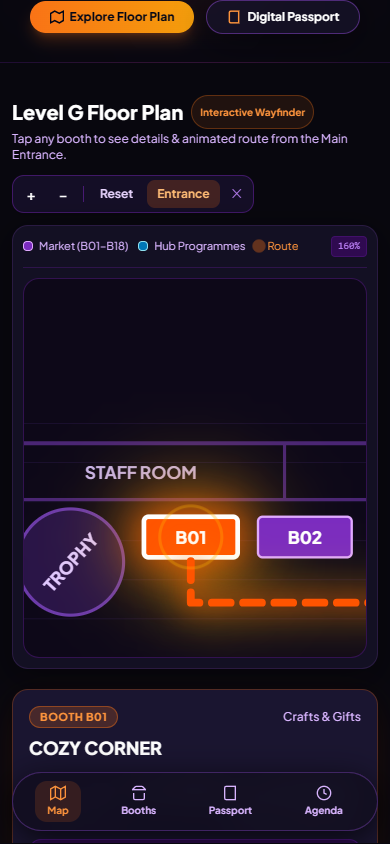
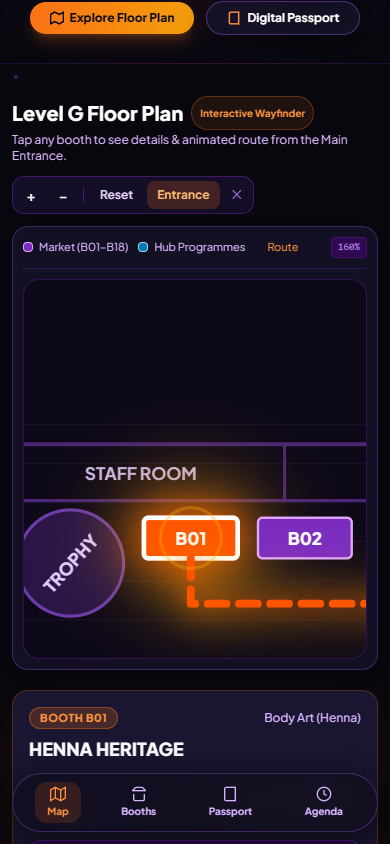
feat: sync final booth directory assignments and remove SALES 2 while keeping B01-B18 map labels

diff --git a/app.js b/app.js
@@ -31,10 +31,10 @@ const BOOTHS_DATA = [
   // --- 1. Top Corridor Row (B01 - B07) ---
   {
     id: "B01",
-    name: "COZY CORNER",
-    category: "Crafts & Gifts",
-    owner: "Sharifah Elliya Farzana",
-    matric: "MC240930531",
+    name: "HENNA HERITAGE",
+    category: "Body Art (Henna)",
+    owner: "Shashmita",
+    matric: "MC240930425",
     section: "MC-S2",
     zone: "Top Corridor",
     cx: 139,
@@ -44,10 +44,10 @@ const BOOTHS_DATA = [
   },
   {
     id: "B02",
-    name: "BLOOM & CO",
-    category: "Florist",
-    owner: "Vainishini Sankar",
-    matric: "MC240929109",
+    name: "STUDYMATE STATIONERY",
+    category: "Stationeries & Jerseys",
+    owner: "Shritharan",
+    matric: "MC240930182",
     section: "MC-S2",
     zone: "Top Corridor",
     cx: 212,
@@ -57,10 +57,10 @@ const BOOTHS_DATA = [
   },
   {
     id: "B03",
-    name: "KITTY KRAFT",
-    category: "Women Accessories",
-    owner: "Theeveeya Shankar Ganesh",
-    matric: "MC240929954",
+    name: "CROCHET OF TWO (CO2)",
+    category: "Arts & Handicrafts",
+    owner: "Sudha",
+    matric: "MC240929677",
     section: "MC-S2",
     zone: "Top Corridor",
     cx: 285,
@@ -70,10 +70,10 @@ const BOOTHS_DATA = [
   },
   {
     id: "B04",
-    name: "IYAL JEWELLERY",
-    category: "Jewelleries",
-    owner: "Ooi Shun Jie Puvendran",
-    matric: "MC240728744",
+    name: "CHARMORA STUDIO",
+    category: "Toys & Keychains",
+    owner: "Nurdini Alya Najwa",
+    matric: "MC240930547",
     section: "MC-S2",
     zone: "Top Corridor",
     cx: 358,
@@ -83,10 +83,10 @@ const BOOTHS_DATA = [
   },
   {
     id: "B05",
-    name: "STUDYMATE STATIONERY",
-    category: "Stationeries & Jerseys",
-    owner: "Shritharan",
-    matric: "MC240930182",
+    name: "KITTY KRAFT",
+    category: "Women Accessories",
+    owner: "Theeveeya Shankar Ganesh",
+    matric: "MC240929954",
     section: "MC-S2",
     zone: "Top Corridor",
     cx: 433,
@@ -96,11 +96,11 @@ const BOOTHS_DATA = [
   },
   {
     id: "B06",
-    name: "PHOTO BOOTH",
-    category: "Photography",
-    owner: "Shawin",
-    matric: "MC240728820",
-    section: "MC-S2",
+    name: "MIRRORART CO.",
+    category: "Hand Mirror For Décor",
+    owner: "Hirosha",
+    matric: "MC240728764",
+    section: "MC-S3",
     zone: "Top Corridor",
     cx: 508,
     cy: 73,
@@ -109,10 +109,10 @@ const BOOTHS_DATA = [
   },
   {
     id: "B07",
-    name: "PB & JL",
-    category: "Keychains, Charms, Pins",
-    owner: "Louiis Fernandez",
-    matric: "MC240930559",
+    name: "FLORAL & CO.",
+    category: "Florist",
+    owner: "Yooshnika",
+    matric: "MC240930186",
     section: "MC-S2",
     zone: "Top Corridor",
     cx: 583,
@@ -124,11 +124,11 @@ const BOOTHS_DATA = [
   // --- 2. West Corridor (Outer: B10, B09, B08 | Inner: B13, B12, B11) ---
   {
     id: "B08",
-    name: "CROCHET OF TWO (CO2)",
-    category: "Arts & Handicrafts",
-    owner: "Sudha",
-    matric: "MC240929677",
-    section: "MC-S2",
+    name: "INK & PAPER CO.",
+    category: "Stationery Sets",
+    owner: "Jagedishraj",
+    matric: "MC250534559",
+    section: "MC-S3",
     zone: "West Corridor",
     cx: 39,
     cy: 374,
@@ -137,10 +137,10 @@ const BOOTHS_DATA = [
   },
   {
     id: "B09",
-    name: "FLORAL & CO.",
+    name: "BLOOM & CO",
     category: "Florist",
-    owner: "Yooshnika",
-    matric: "MC240930186",
+    owner: "Vainishini Sankar",
+    matric: "MC240929109",
     section: "MC-S2",
     zone: "West Corridor",
     cx: 39,
@@ -150,10 +150,10 @@ const BOOTHS_DATA = [
   },
   {
     id: "B10",
-    name: "ROSE2U",
-    category: "Florist",
-    owner: "Levnesh",
-    matric: "MC240527875",
+    name: "COZY CORNER",
+    category: "Crafts & Gifts",
+    owner: "Sharifah Elliya Farzana",
+    matric: "MC240930531",
     section: "MC-S2",
     zone: "West Corridor",
     cx: 39,
@@ -163,11 +163,11 @@ const BOOTHS_DATA = [
   },
   {
     id: "B11",
-    name: "CHARMORA STUDIO",
-    category: "Toys, Keychains",
-    owner: "Nurdini Alya Najwa",
-    matric: "MC240930547",
-    section: "MC-S2",
+    name: "TRISSORIES",
+    category: "Mini Wallet, Lanyard, Plushies, Keychains",
+    owner: "Krishan",
+    matric: "MC240929212",
+    section: "MC-S3",
     zone: "West Corridor",
     cx: 152,
     cy: 374,
@@ -176,10 +176,10 @@ const BOOTHS_DATA = [
   },
   {
     id: "B12",
-    name: "HENNA HERITAGE",
-    category: "Body Art",
-    owner: "Shashmita",
-    matric: "MC240930425",
+    name: "IYAL JEWELLERY",
+    category: "Jewelleries",
+    owner: "Ooi Shun Jie Puvendran",
+    matric: "MC240728744",
     section: "MC-S2",
     zone: "West Corridor",
     cx: 152,
@@ -189,11 +189,11 @@ const BOOTHS_DATA = [
   },
   {
     id: "B13",
-    name: "ACCESSORIZE",
-    category: "Accessories",
-    owner: "Aila Naazneen",
-    matric: "MC260944134",
-    section: "MC-S2",
+    name: "AURORA",
+    category: "Candles & Earrings",
+    owner: "Nirmala Dhevi",
+    matric: "MC240930460",
+    section: "MC-S3",
     zone: "West Corridor",
     cx: 152,
     cy: 229,
@@ -204,11 +204,11 @@ const BOOTHS_DATA = [
   // --- 3. Middle Hub Zone (B14 - B18) ---
   {
     id: "B14",
-    name: "MIRROR ART & CO",
-    category: "Hand Mirror For Décor",
-    owner: "Hirosha",
-    matric: "MC240728764",
-    section: "MC-S3",
+    name: "SNAP N VIBE",
+    category: "Photography / Instant Photos",
+    owner: "Shawin",
+    matric: "MC240728820",
+    section: "MC-S2",
     zone: "Middle Hub",
     cx: 686,
     cy: 209,
@@ -217,10 +217,10 @@ const BOOTHS_DATA = [
   },
   {
     id: "B15",
-    name: "TRISSORIES",
-    category: "Mini Wallet, Lanyard, Plushies, Keychains",
-    owner: "Krishan",
-    matric: "MC240929212",
+    name: "THREE BROTHERS",
+    category: "Keychains",
+    owner: "Arunn",
+    matric: "MC240929953",
     section: "MC-S3",
     zone: "Middle Hub",
     cx: 686,
@@ -230,11 +230,11 @@ const BOOTHS_DATA = [
   },
   {
     id: "B16",
-    name: "AURORA",
-    category: "Candles, Earrings",
-    owner: "Nirmala Dhevi",
-    matric: "MC240930460",
-    section: "MC-S3",
+    name: "PB & JL",
+    category: "Keychains, Charms, Pins",
+    owner: "Louiis Fernandez",
+    matric: "MC240930559",
+    section: "MC-S2",
     zone: "Middle Hub",
     cx: 687,
     cy: 312,
@@ -243,11 +243,11 @@ const BOOTHS_DATA = [
   },
   {
     id: "B17",
-    name: "IN & PAPER CO.",
-    category: "Stationery Sets",
-    owner: "Jagedishraj",
-    matric: "MC250534559",
-    section: "MC-S3",
+    name: "ROSE2U",
+    category: "Florist",
+    owner: "Levnesh",
+    matric: "MC240527875",
+    section: "MC-S2",
     zone: "Middle Hub",
     cx: 737,
     cy: 212,
@@ -256,11 +256,11 @@ const BOOTHS_DATA = [
   },
   {
     id: "B18",
-    name: "THREE BROTHERS",
-    category: "Keychains",
-    owner: "Arunn",
-    matric: "MC240929953",
-    section: "MC-S3",
+    name: "ACCESSORIES",
+    category: "Accessories",
+    owner: "Aila Naazneen",
+    matric: "MC260944134",
+    section: "MC-S2",
     zone: "Middle Hub",
     cx: 738,
     cy: 269,
@@ -428,18 +428,6 @@ const BOOTHS_DATA = [
     cy: 499,
     path: "524,528 524,400 903,400 903,499 960,499",
     directions: "Located on far right wall inside UNITAR Hub Level G below Gift Counter."
-  },
-  {
-    id: "SALES2",
-    name: "HUB SALES COUNTER 2",
-    category: "Special Booth",
-    owner: "Event Committee",
-    section: "HUB",
-    zone: "Academic Hub",
-    cx: 969,
-    cy: 547,
-    path: "524,528 524,400 903,400 903,547 960,547",
-    directions: "Located at bottom-right corner inside UNITAR Hub Level G."
   }
 ];
 

diff --git a/index.html b/index.html
@@ -519,11 +519,6 @@
               <text x="969" y="499" fill="#fff" font-size="6.5" font-weight="800" text-anchor="middle" dominant-baseline="central" transform="rotate(90 969 499)" pointer-events="none">SALES 1</text>
               <circle cx="990" cy="489" r="4.5" fill="#2d174a" stroke="#6c3baa" stroke-width="1" />
               <circle cx="990" cy="509" r="4.5" fill="#2d174a" stroke="#6c3baa" stroke-width="1" />
-
-              <rect id="map-SALES2" class="booth-rect" x="960" y="528" width="18" height="38" rx="2" fill="#0077b6" stroke="#90e0ef" stroke-width="1" />
-              <text x="969" y="547" fill="#fff" font-size="6.5" font-weight="800" text-anchor="middle" dominant-baseline="central" transform="rotate(90 969 547)" pointer-events="none">SALES 2</text>
-              <circle cx="990" cy="537" r="4.5" fill="#2d174a" stroke="#6c3baa" stroke-width="1" />
-              <circle cx="990" cy="557" r="4.5" fill="#2d174a" stroke="#6c3baa" stroke-width="1" />
             </g>
 
             <!-- Dynamic Glowing Wayfinding Path -->
@@ -615,7 +610,7 @@
     <!-- Category Filter Chips (Swipeable on Mobile) -->
     <div class="flex items-center gap-1.5 mb-5 overflow-x-auto pb-2 scrollbar-none sm:flex-wrap" id="filter-pills-container">
       <button data-filter="ALL" class="filter-btn shrink-0 whitespace-nowrap px-3.5 py-1.5 rounded-full text-xs font-bold transition bg-orange-500 text-slate-950 border border-orange-400">
-        All Booths (32)
+        All Booths (31)
       </button>
       <button data-filter="MC-S2" class="filter-btn shrink-0 whitespace-nowrap px-3.5 py-1.5 rounded-full text-xs font-bold transition bg-purple-950/40 text-purple-300 border border-purple-700/30 hover:border-purple-500">
         Top &amp; West Corridor (MC-S2)

diff --git a/test_floorplan.js b/test_floorplan.js
@@ -43,13 +43,13 @@ const fs = require('fs');
     console.log('Saved: current_svg_floorplan.png');
   }
 
-  // 3. Verify all 32 booths are present in SVG DOM
+  // 3. Verify all 31 booths are present in SVG DOM
   const expectedBooths = [
     'B01', 'B02', 'B03', 'B04', 'B05', 'B06', 'B07', 'B08', 'B09', 'B10',
     'B11', 'B12', 'B13', 'B14', 'B15', 'B16', 'B17', 'B18',
     'G1', 'G2', 'G3', 'G4',
     'BFINTECH', 'BACC', 'BBA', 'BIB', 'BHRM', 'FOOD',
-    'STAGE', 'GIFT', 'SALES1', 'SALES2'
+    'STAGE', 'GIFT', 'SALES1'
   ];
 
   console.log(`Checking ${expectedBooths.length} booth elements in DOM...`);
@@ -68,16 +68,17 @@ const fs = require('fs');
     console.log(`SUCCESS: All ${expectedBooths.length} booth elements found in SVG!`);
   }
 
-  // Also verify removed booths B19, B20, PHOTO, and BAF are NOT in DOM
+  // Also verify removed booths B19, B20, PHOTO, BAF, and SALES2 are NOT in DOM
   const b19El = await page.$('#map-B19');
   const b20El = await page.$('#map-B20');
   const photoEl = await page.$('#map-PHOTO');
   const bafEl = await page.$('#map-BAF');
-  if (b19El || b20El || photoEl || bafEl) {
-    console.error('FAIL: B19, B20, PHOTO, or BAF still found in SVG map!');
+  const sales2El = await page.$('#map-SALES2');
+  if (b19El || b20El || photoEl || bafEl || sales2El) {
+    console.error('FAIL: B19, B20, PHOTO, BAF, or SALES2 still found in SVG map!');
     process.exitCode = 1;
   } else {
-    console.log('SUCCESS: B19, B20, PHOTO stand, and BA&F are confirmed removed from SVG map!');
+    console.log('SUCCESS: B19, B20, PHOTO stand, BA&F, and SALES 2 are confirmed removed from SVG map!');
   }
 
   // Verify Sai Lakshmi and Dhivyah lead cards are removed from DOM
